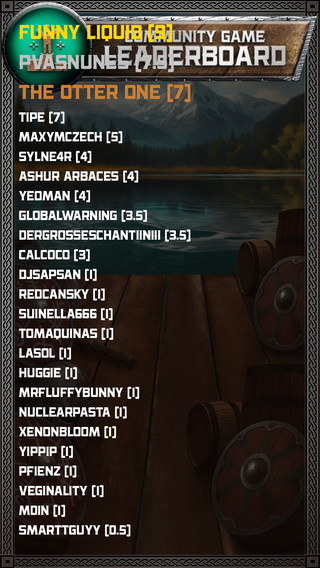
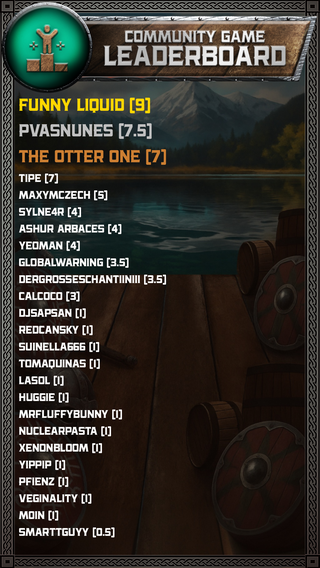
Deploying to gh-pages from @ ENS00/twitch_leaderboard@de2912b520c8eaae5eb9a9082b6ce2f9be25fade 🚀

Changed region(s): [[0.0625, 0.0299, 0.5938, 0.9577]]

diff --git a/generate_image.py b/generate_image.py
@@ -4,7 +4,7 @@ from PIL import Image, ImageDraw, ImageFont
 with open("leaderboard.txt") as f:
     lines = [l.strip() for l in f if l.strip()]
 big_font_ratio = 1.525
-font_size = 1050/len(lines)
+font_size = 900/len(lines)
 # long text may exceed image, so font has a max size
 if font_size > 55:
     font_size = 55
@@ -19,7 +19,7 @@ cols = 0
 width, height = img.size
 scale_Y = height/width
 text_len = (width-border)#/3
-current_y = 0
+current_y = 240
 
 
 for i, line in enumerate(lines):
@@ -43,4 +43,5 @@ for i, line in enumerate(lines):
         cols+=1
 
 img.thumbnail((320,scale_Y*320), Image.Resampling.LANCZOS)
+
 img.save("leaderboard.png")
